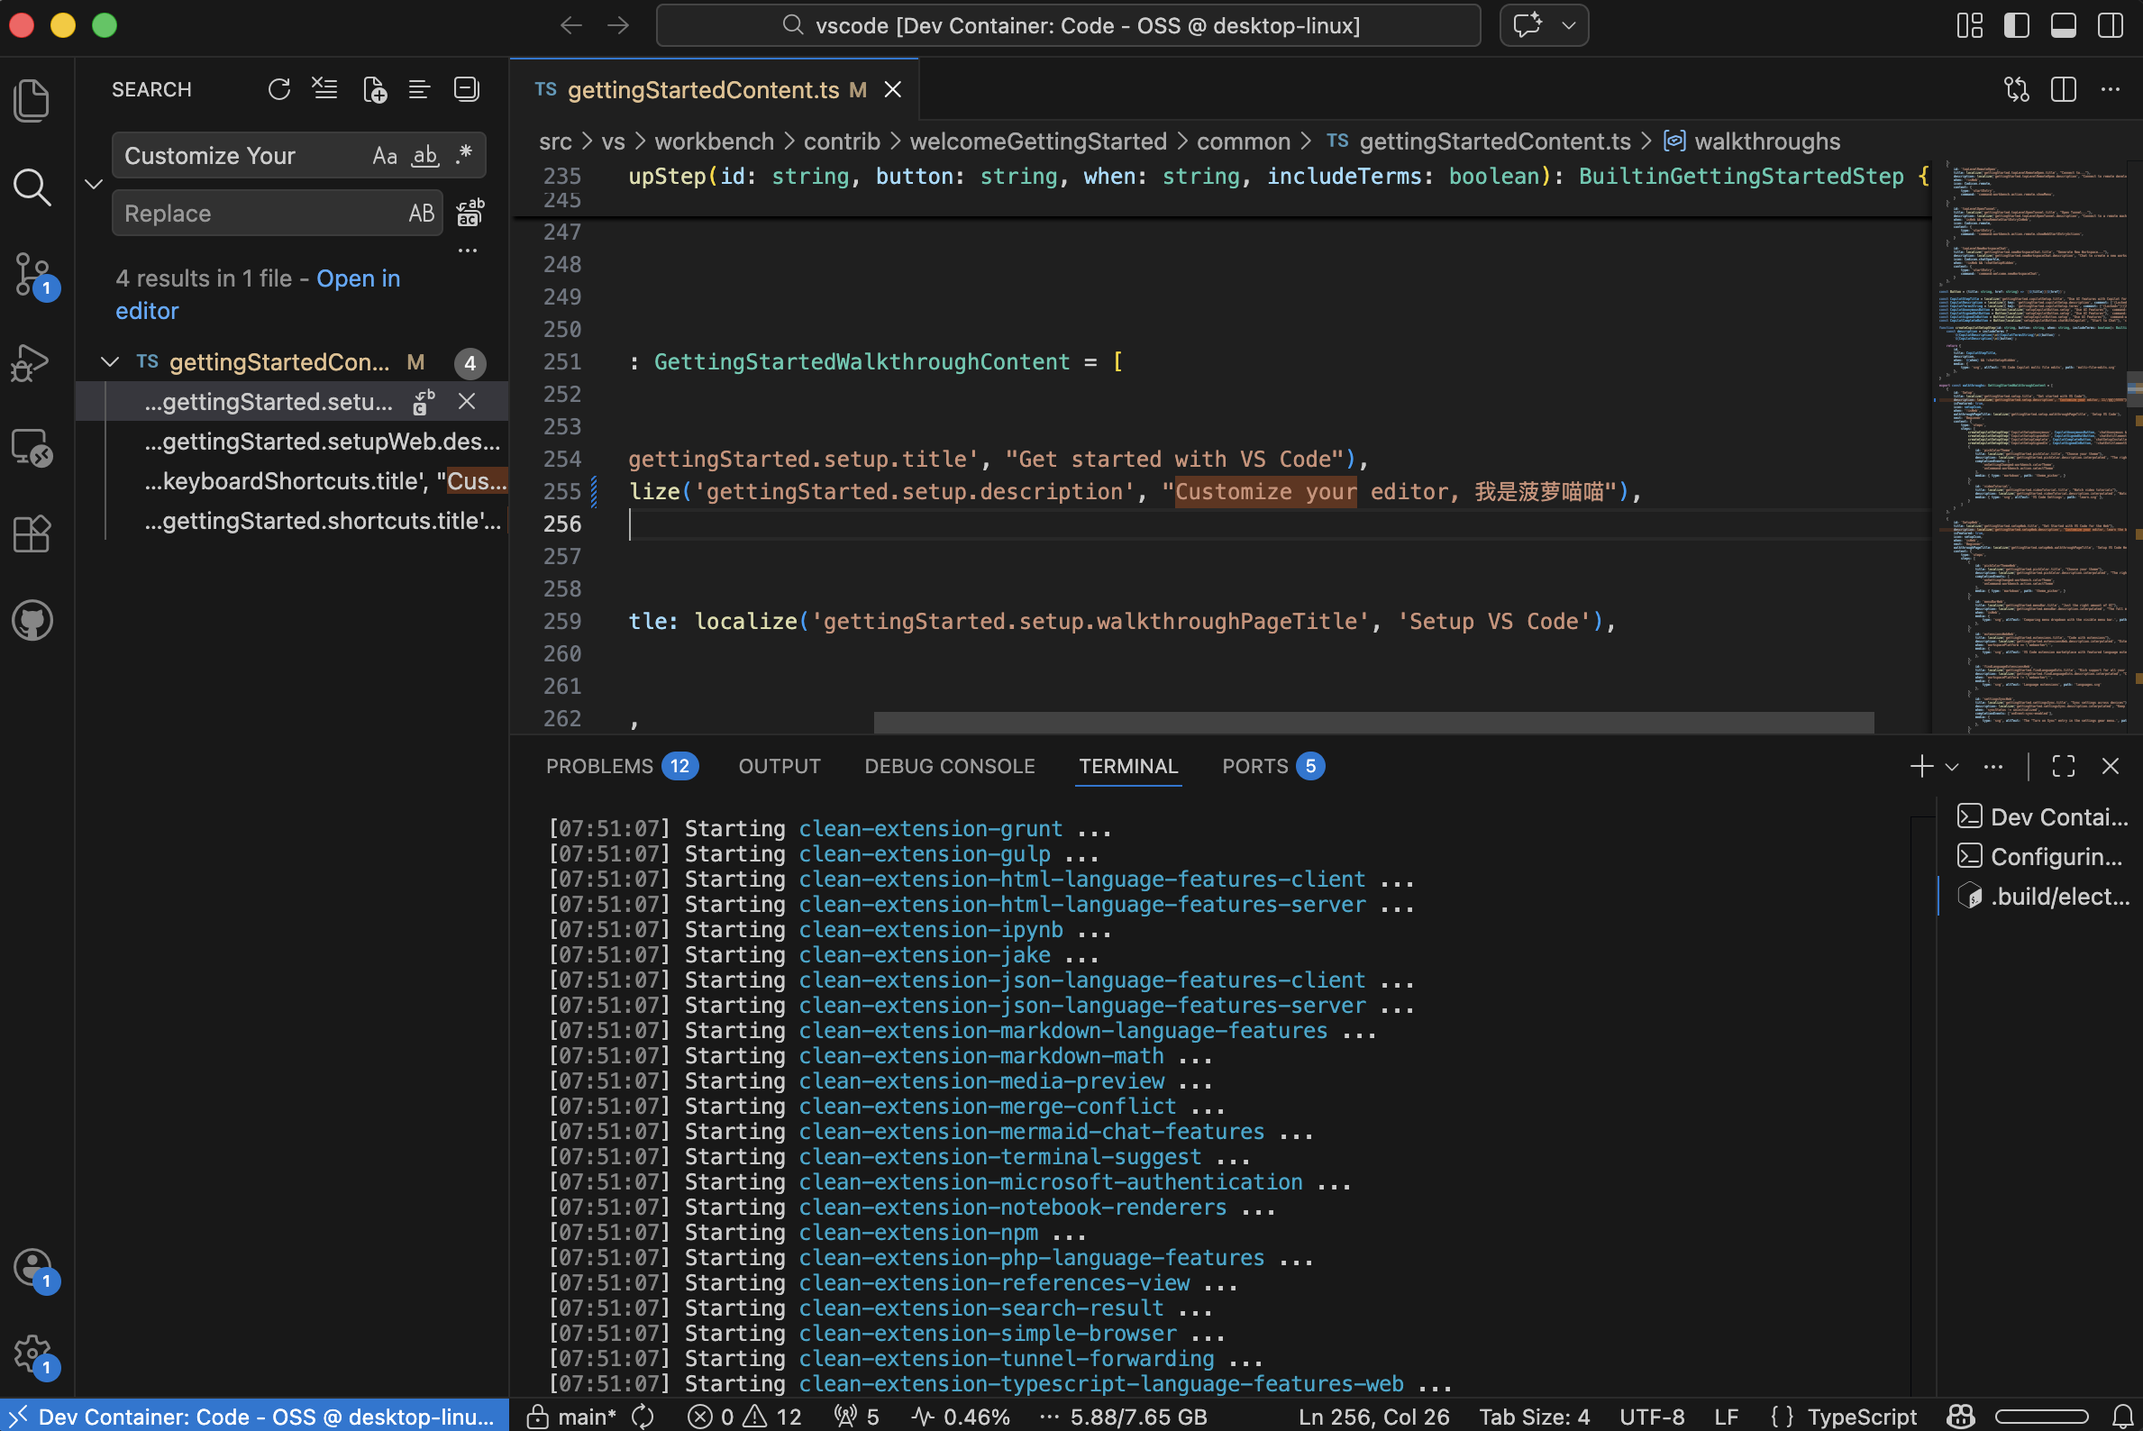
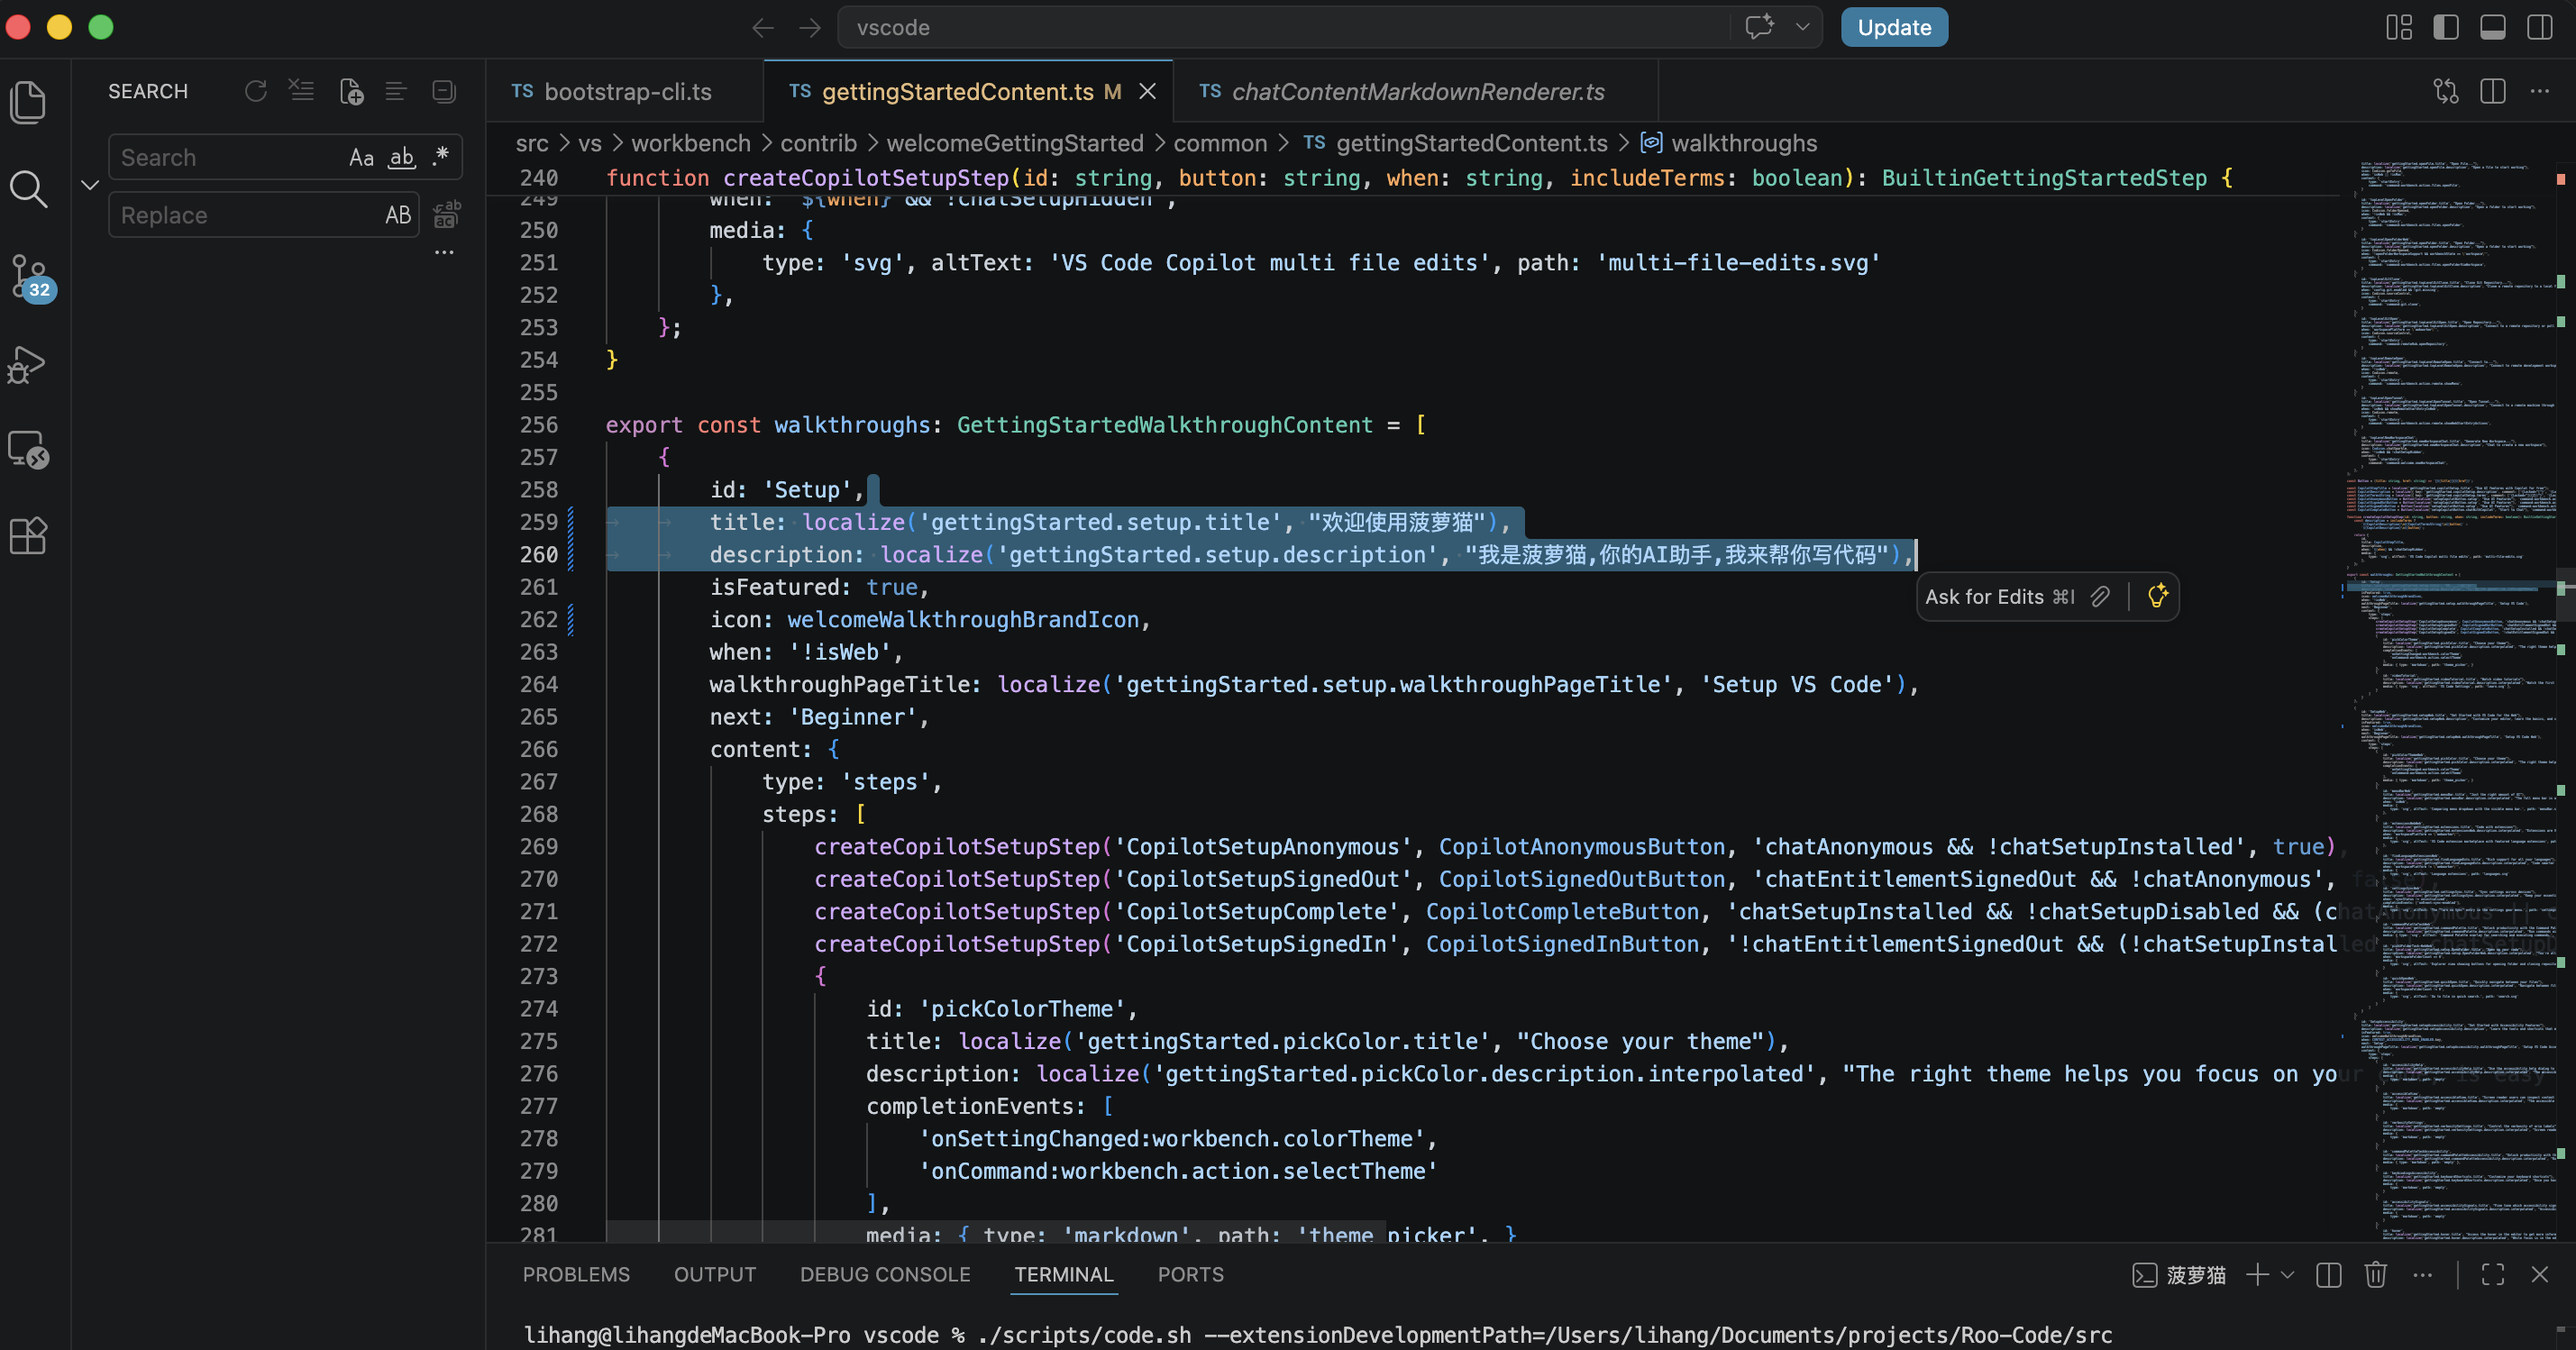
update ai ide docs

diff --git a/docs/IDE-extension/开发一个自己的Ai-IDE.md b/docs/IDE-extension/开发一个自己的Ai-IDE.md
@@ -2,6 +2,11 @@
 类似Cursor，Kiro，Trae，Qoder等知名Ai-IDE，都是基于Vscode源码，
 编程语言Typescript
 
+## 我的产品名字为菠萝猫，已经开发完成，效果如下，教程补充中todo...
+![alt text](/assets/ai/image11.png)
+![alt text](/assets/ai/image10.png)
+### 这里的的模式参考的cursor，功能已实现
+![alt text](/assets/ai/image12.png)
 ## vscode源码仓库
 https://github.com/microsoft/vscode
 
@@ -10,14 +15,8 @@ https://github.com/microsoft/vscode
 git clone --branch main --single-branch --depth 1 git@github.com:microsoft/vscode.git
 ```
 
-## 开发方式有如下两种，目前推荐第一种
-```
-第一种，直接跑源码，编译和环境问题自行解决
-第二种，下载vscode，安装docker，并下载Dev Containers插件
 
-```
-
-### 开发方式一，直接跑源码
+### 直接跑源码
 ```
 在源码目录直接执行如下命令
 npm install
@@ -31,46 +30,14 @@ npm run compile 第一次跑要全量编译
 简单说：watch 提升迭代速度，compile 做最终验收。
 
 ```
-
-### 开发方式二，Dev Containers 使用流程
-
-![](/assets/ai/image1.png)
-注意: docker内存调整到16g
-![](/assets/ai/image9.png)
-
-
 ```
-1. 用vscode-ide打开刚刚克隆下来的vscode源码
-2. command + shift + p 
-3. 选择 Reopen in Container，vscode会构建工作区的代码并加载到虚拟docker环境
-```
-![](/assets/ai/image2.png)
-
-点击Reopen in Container 可能需要10几分钟的时间，如果失败了，可以command + shift + p 
-选择重新构建
-![](/assets/ai/image3.png)
-
-正常的话，会切换到这个页面
-你需要在终端中输入 ./scripts/code.sh 来启动项目
-![alt text](/assets/ai/image4.png)
-
-```
-如果是windows电脑，会单独打开一个终端窗口
-如果是mac电脑，要在网页输入 http://localhost:6080/
-```
-![alt text](/assets/ai/image5.png)
-```
-进去后在网页可以看到，vscode源码跑起来是什么样子
-```
-![alt text](/assets/ai/image6.png)
-```
-开始修改源代码，在欢迎页面加修改源码加一句 我是菠萝喵喵
+开始修改源代码，通过页面关键字定位到源代码，在欢迎页面加修改源码加一句 `我是菠萝猫,你的AI助手,我来帮你写代码`
 ```
 ![alt text](/assets/ai/image7.png)
 
 ### 来开始定制试试效果
 ```
-在欢迎页面加修改源码加一句 我是菠萝喵喵
+在欢迎页面加修改源码加一句 我是菠萝猫
 改完后在命令行窗口执行，重新编译运行
 开发阶段执行
 npm run watch    这个可以热更新，不过改了代码还要去执行./scripts/code.sh
@@ -83,3 +50,136 @@ npm run compile
 
 ```
 ![alt text](/assets/ai/image8.png)
+### 开发阶段加载vscode插件
+
+执行如下命令可以在开发阶段在vscode中看到你的插件
+```
+./scripts/code.sh --extensionDevelopmentPath=/Users/lihang/Documents/projects/你的插件源码/src
+
+```
+
+### 打包制品
+#### 1.打包成mac-arm芯片的dmg包
+```
+1、编译vscode插件，如果有的情况
+   先将vscode插件打包成.vsix文件
+   计算校验和，打包进vscode中要用到
+   shasum -a 256 /Users/lihang/Documents/projects/boluomao/bin/*.vsix 
+2、把插件写进 VS Code 内置扩展列表
+   编辑 vscode/product.json 的 builtInExtensions，在现有条目后面增加（路径和 sha256 按你实际文件改）
+   {
+			"name": "lihang.boluomao",
+			"version": "1.0.0",
+			"sha256": "e99d0a2e7088aaa096b986ea85a1813204d5f22c9fc5177a24c2b9f1e570dc",
+			"vsix": "../boluomao-Code/bin/boluomao-1.0.0.vsix",
+			"metadata": {
+			  "id": "lihang.boluomao",
+			  "publisherId": {
+				"publisherId": "lihang",
+				"publisherName": "lihang",
+				"displayName": "lihang",
+				"flags": ""
+			  },
+			  "publisherDisplayName": "lihang"
+			}
+		  },
+3、打包 macOS 应用（耗时最长）
+    环境（参考 How to Contribute）：
+
+    Node.js（与仓库 package.json engines 一致）
+    Xcode Command Line Tools
+    Python ≥ 3.10（做 DMG 时需要）
+    磁盘空间建议 30GB+
+    cd /Users/lihang/Documents/projects/vscode
+    npm ci   # 若还没装依赖
+
+    # Apple Silicon (M 系列)
+    npm run gulp vscode-darwin-arm64-min
+
+    # Intel Mac 用
+    # npm run gulp vscode-darwin-x64-min
+    完成后应用一般在上一级目录：
+
+    /Users/lihang/Documents/projects/VSCode-darwin-arm64/菠萝猫.app
+4、打出dmg包，暂时不上架，上架需走苹果的认证
+    cd /Users/lihang/Documents/projects/vscode
+
+    export VSCODE_ARCH=arm64          # 你当前是 Apple Silicon
+    export VSCODE_QUALITY=stable      # 对应 build/darwin/dmg-background-stable.tiff
+
+    mkdir -p /Users/lihang/Documents/projects/dmg-out
+
+    node build/darwin/create-dmg.ts \
+    "/Users/lihang/Documents/projects" \
+    "/Users/lihang/Documents/projects/dmg-out"
+
+    产物：
+    /Users/lihang/Documents/projects/dmg-out/VSCode-darwin-arm64.dmg
+
+    可改名：
+
+    mv /Users/lihang/Documents/projects/dmg-out/VSCode-darwin-arm64.dmg \
+    /Users/lihang/Documents/projects/菠萝猫-1.0.0-arm64.dmg
+
+5、发给别人时候注意
+   
+    当前包是 arm64，仅适用于 M 系列 Mac；Intel Mac 需另打 vscode-darwin-x64-min
+
+    首次打开
+    未公证时可能提示「无法验证开发者」→ 右键 → 打开，或 系统设置 → 隐私与安全性 → 仍要打开
+
+    隔离属性
+    若从网盘/微信下载，可让对方执行：xattr -cr /Applications/菠萝猫.app
+
+    不必上架
+    内部分发不需要 App Store；公证（notarize） 可选，没做也能用，只是首次打开多一步确认
+```
+
+
+
+#### 2.打包成windows的包
+```
+  mac上无法交叉编译出windows的产物，需要一台windows电脑或者虚拟机
+  cd C:\path\to\vscode 
+  npm run gulp vscode-win32-x64-min
+
+  产物目录
+  ..\VSCode-win32-x64\
+  boluomiaomiao.exe    # applicationName 来自 product.json
+  resources\app\...
+
+  打包成zip文件
+  Compress-Archive -Path ..\VSCode-win32-x64 -DestinationPath boluomao-win32-x64.zip
+
+  若要 安装程序（可选，需要 Inno Setup）
+  npm run gulp vscode-win32-x64-system-setup
+```
+
+### 遇到的问题
+
+1.拉取electron失败，因为网络
+```
+
+export ELECTRON_MIRROR="https://npmmirror.com/mirrors/electron/"
+cd /Users/lihang/Documents/projects/vscode
+npm run electron
+./scripts/code.sh
+
+```
+
+2.打包插件,如果文件不全，需要手动解包
+```
+    cd /Users/lihang/Documents/projects/vscode
+
+    rm -rf .build/builtInExtensions/lihang.boluomao
+    mkdir -p /tmp/bm-unzip
+    unzip -q ../buoluomao/bin/boluomao-1.0.0.vsix -d /tmp/bm-unzip
+    mv /tmp/bm-unzip/extension .build/builtInExtensions/lihang.boluomao
+
+    # 必须能 ls 到这两个文件
+    ls .build/builtInExtensions/lihang.boluomao/dist/extension.js
+    ls .build/builtInExtensions/lihang.boluomao/webview-ui/build/assets/index.js
+
+    # 再打包（Apple Silicon）
+    npm run gulp vscode-darwin-arm64-min
+```

diff --git a/docs/IDE-extension/DevContainers运行VScode源码.md b/docs/IDE-extension/DevContainers运行VScode源码.md
@@ -1,0 +1,49 @@
+# Dev Containers 使用流程
+
+
+![](/assets/ai/image1.png)
+注意: docker内存调整到16g
+![](/assets/ai/image9.png)
+
+
+```
+1. 用vscode-ide打开刚刚克隆下来的vscode源码
+2. command + shift + p 
+3. 选择 Reopen in Container，vscode会构建工作区的代码并加载到虚拟docker环境
+```
+![](/assets/ai/image2.png)
+
+点击Reopen in Container 可能需要10几分钟的时间，如果失败了，可以command + shift + p 
+选择重新构建
+![](/assets/ai/image3.png)
+
+正常的话，会切换到这个页面
+你需要在终端中输入 ./scripts/code.sh 来启动项目
+![alt text](/assets/ai/image4.png)
+
+```
+如果是windows电脑，会单独打开一个终端窗口
+如果是mac电脑，要在网页输入 http://localhost:6080/
+```
+![alt text](/assets/ai/image5.png)
+```
+进去后在网页可以看到，vscode源码跑起来是什么样子
+```
+![alt text](/assets/ai/image6.png)
+```
+
+开始修改源代码，通过页面关键字定位到源代码，在欢迎页面加修改源码加一句 `我是菠萝猫,你的AI助手,我来帮你写代码`
+```
+![alt text](/assets/ai/image7.png)
+
+### 来开始定制试试效果
+```
+在欢迎页面加修改源码加一句 我是菠萝猫
+改完后在命令行窗口执行，重新编译运行
+开发阶段执行
+npm run watch    这个可以热更新，不过改了代码还要去执行./scripts/code.sh
+./scripts/code.sh
+![alt text](/assets/ai/image8.png)
+
+vscode源码解析
+https://zhuanlan.zhihu.com/p/25726569753

diff --git a/docs/IDE-extension/VScode云端IDE和Theia.md b/docs/IDE-extension/VScode云端IDE和Theia.md
@@ -1,4 +1,4 @@
-# Theia 
+# VScode云端IDE和Theia 
 
 Theia支持vscode插件和Theia插件，并可以通过Api的方式，修改Theia的整体布局
 

diff --git a/docs/IDE-extension/VScode源码解析.md b/docs/IDE-extension/VScode源码解析.md
@@ -1,3 +1,3 @@
-# Vscode源码解析.md
+# Vscode源码解析
 
-https://zhuanlan.zhihu.com/p/25726569753
+todo...
